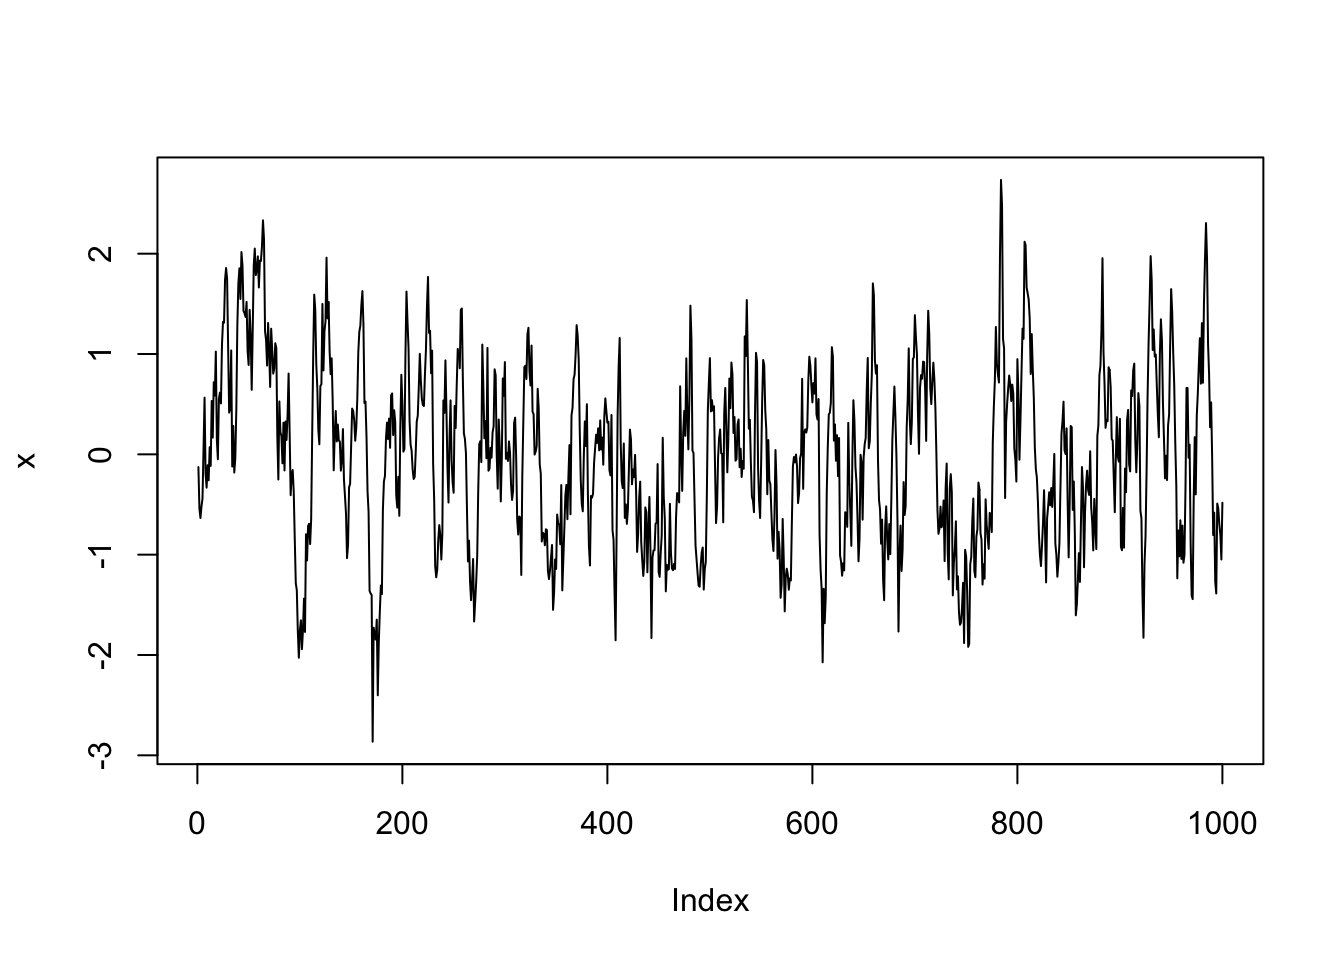
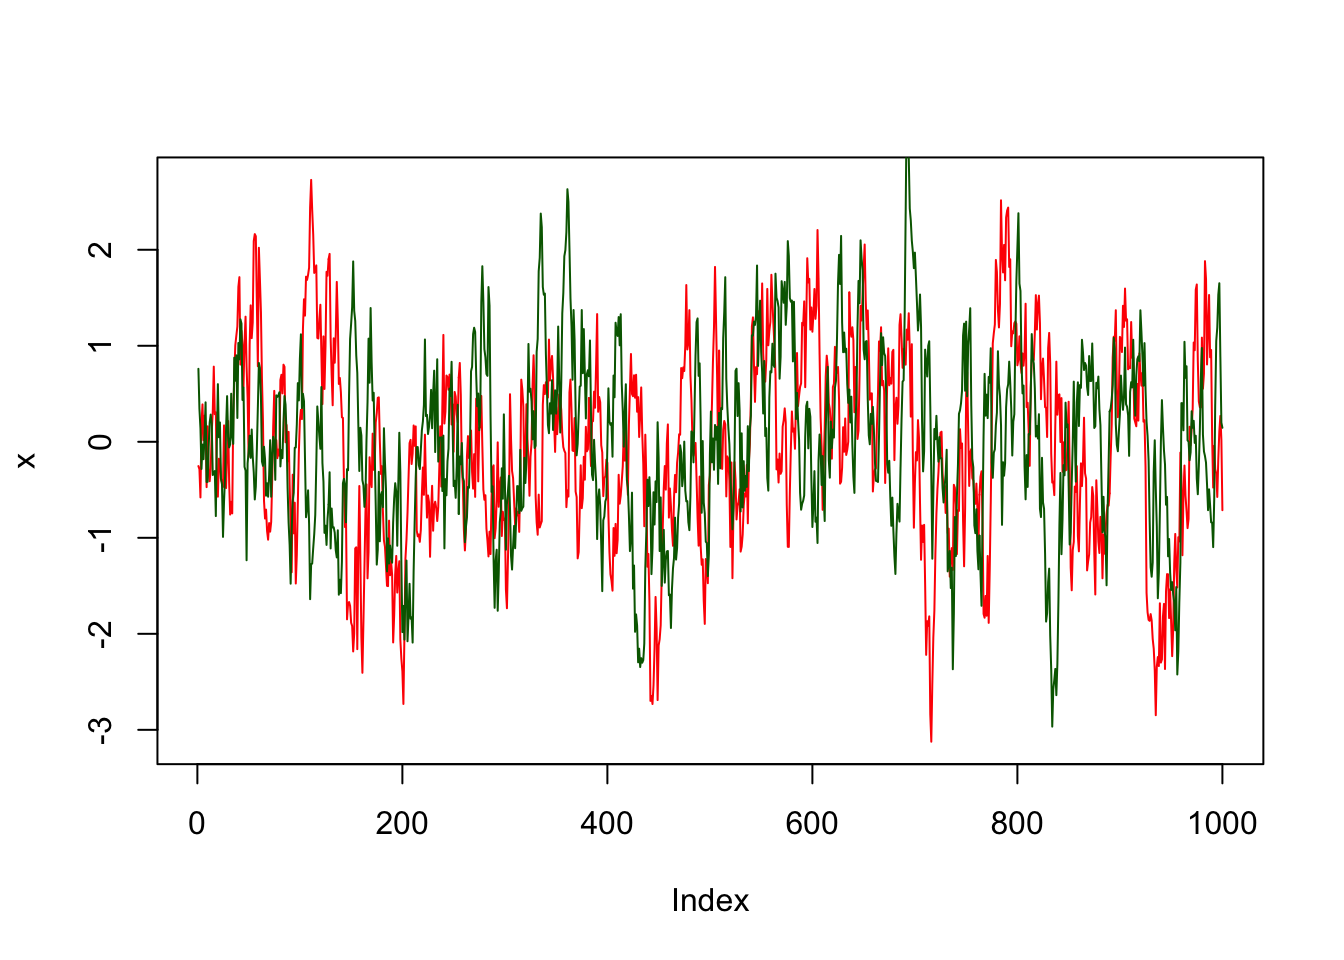
Messed around with welcome post

diff --git a/_site/posts/welcome/index.html b/_site/posts/welcome/index.html
@@ -232,16 +232,20 @@ window.Quarto = {
 <div class="sourceCode cell-code" id="cb1"><pre class="sourceCode r code-with-copy"><code class="sourceCode r"><span id="cb1-1"><a href="#cb1-1" aria-hidden="true" tabindex="-1"></a><span class="co"># generate storage variables</span></span>
 <span id="cb1-2"><a href="#cb1-2" aria-hidden="true" tabindex="-1"></a>nits <span class="ot">&lt;-</span> <span class="dv">1000</span></span>
 <span id="cb1-3"><a href="#cb1-3" aria-hidden="true" tabindex="-1"></a>x <span class="ot">&lt;-</span> <span class="fu">rep</span>(<span class="cn">NA</span>, nits)</span>
-<span id="cb1-4"><a href="#cb1-4" aria-hidden="true" tabindex="-1"></a>x[<span class="dv">1</span>] <span class="ot">&lt;-</span> <span class="fu">rnorm</span>(<span class="dv">1</span>)</span>
-<span id="cb1-5"><a href="#cb1-5" aria-hidden="true" tabindex="-1"></a>a <span class="ot">&lt;-</span> <span class="fl">0.9</span></span>
-<span id="cb1-6"><a href="#cb1-6" aria-hidden="true" tabindex="-1"></a></span>
-<span id="cb1-7"><a href="#cb1-7" aria-hidden="true" tabindex="-1"></a><span class="co"># simulate chain</span></span>
-<span id="cb1-8"><a href="#cb1-8" aria-hidden="true" tabindex="-1"></a><span class="cf">for</span> (i <span class="cf">in</span> <span class="dv">2</span><span class="sc">:</span>nits) {</span>
-<span id="cb1-9"><a href="#cb1-9" aria-hidden="true" tabindex="-1"></a>    x[i] <span class="ot">&lt;-</span> a <span class="sc">*</span> x[i<span class="dv">-1</span>] <span class="sc">+</span> <span class="fu">sqrt</span>(<span class="dv">1</span><span class="sc">-</span>a<span class="sc">^</span><span class="dv">2</span>) <span class="sc">*</span> <span class="fu">rnorm</span>(<span class="dv">1</span>)</span>
-<span id="cb1-10"><a href="#cb1-10" aria-hidden="true" tabindex="-1"></a>}</span>
-<span id="cb1-11"><a href="#cb1-11" aria-hidden="true" tabindex="-1"></a></span>
-<span id="cb1-12"><a href="#cb1-12" aria-hidden="true" tabindex="-1"></a><span class="co"># plot results</span></span>
-<span id="cb1-13"><a href="#cb1-13" aria-hidden="true" tabindex="-1"></a><span class="fu">plot</span>(x, <span class="at">type =</span> <span class="st">'l'</span>, <span class="at">pch =</span> <span class="dv">16</span>)</span></code><button title="Copy to Clipboard" class="code-copy-button"><i class="bi"></i></button></pre></div>
+<span id="cb1-4"><a href="#cb1-4" aria-hidden="true" tabindex="-1"></a>y <span class="ot">&lt;-</span> <span class="fu">rep</span>(<span class="cn">NA</span>, nits)</span>
+<span id="cb1-5"><a href="#cb1-5" aria-hidden="true" tabindex="-1"></a>x[<span class="dv">1</span>] <span class="ot">&lt;-</span> <span class="fu">rnorm</span>(<span class="dv">1</span>)</span>
+<span id="cb1-6"><a href="#cb1-6" aria-hidden="true" tabindex="-1"></a>y[<span class="dv">1</span>] <span class="ot">&lt;-</span> <span class="fu">rnorm</span>(<span class="dv">1</span>)</span>
+<span id="cb1-7"><a href="#cb1-7" aria-hidden="true" tabindex="-1"></a>a <span class="ot">&lt;-</span> <span class="fl">0.9</span></span>
+<span id="cb1-8"><a href="#cb1-8" aria-hidden="true" tabindex="-1"></a></span>
+<span id="cb1-9"><a href="#cb1-9" aria-hidden="true" tabindex="-1"></a><span class="co"># simulate chains</span></span>
+<span id="cb1-10"><a href="#cb1-10" aria-hidden="true" tabindex="-1"></a><span class="cf">for</span> (i <span class="cf">in</span> <span class="dv">2</span><span class="sc">:</span>nits) {</span>
+<span id="cb1-11"><a href="#cb1-11" aria-hidden="true" tabindex="-1"></a>    x[i] <span class="ot">&lt;-</span> a <span class="sc">*</span> x[i<span class="dv">-1</span>] <span class="sc">+</span> <span class="fu">sqrt</span>(<span class="dv">1</span><span class="sc">-</span>a<span class="sc">^</span><span class="dv">2</span>) <span class="sc">*</span> <span class="fu">rnorm</span>(<span class="dv">1</span>)</span>
+<span id="cb1-12"><a href="#cb1-12" aria-hidden="true" tabindex="-1"></a>    y[i] <span class="ot">&lt;-</span> a <span class="sc">*</span> y[i<span class="dv">-1</span>] <span class="sc">+</span> <span class="fu">sqrt</span>(<span class="dv">1</span><span class="sc">-</span>a<span class="sc">^</span><span class="dv">2</span>) <span class="sc">*</span> <span class="fu">rnorm</span>(<span class="dv">1</span>)</span>
+<span id="cb1-13"><a href="#cb1-13" aria-hidden="true" tabindex="-1"></a>}</span>
+<span id="cb1-14"><a href="#cb1-14" aria-hidden="true" tabindex="-1"></a></span>
+<span id="cb1-15"><a href="#cb1-15" aria-hidden="true" tabindex="-1"></a><span class="co"># plot results</span></span>
+<span id="cb1-16"><a href="#cb1-16" aria-hidden="true" tabindex="-1"></a><span class="fu">plot</span>(x, <span class="at">type =</span> <span class="st">'l'</span>, <span class="at">col =</span> <span class="st">"red"</span>)</span>
+<span id="cb1-17"><a href="#cb1-17" aria-hidden="true" tabindex="-1"></a><span class="fu">lines</span>(y, <span class="at">col =</span> <span class="st">"darkgreen"</span>)</span></code><button title="Copy to Clipboard" class="code-copy-button"><i class="bi"></i></button></pre></div>
 <div class="cell-output-display">
 <div>
 <figure class="figure">

diff --git a/_site/index.html b/_site/index.html
@@ -211,7 +211,7 @@ window.Quarto = {
 
 <div class="quarto-listing quarto-listing-container-default" id="listing-listing">
 <div class="list quarto-listing-default">
-<div class="quarto-post image-right" data-index="0" data-categories="bmV3cw==" data-listing-date-sort="1774998000000" data-listing-file-modified-sort="1775072105286" data-listing-date-modified-sort="NaN" data-listing-reading-time-sort="1" data-listing-word-count-sort="148">
+<div class="quarto-post image-right" data-index="0" data-categories="bmV3cw==" data-listing-date-sort="1774998000000" data-listing-file-modified-sort="1775073184421" data-listing-date-modified-sort="NaN" data-listing-reading-time-sort="1" data-listing-word-count-sort="168">
 <div class="thumbnail">
 <p><a href="./posts/welcome/index.html" class="no-external"></a></p><a href="./posts/welcome/index.html" class="no-external">
 <p class="card-img-top"><img src="posts/welcome/index_files/figure-html/unnamed-chunk-1-1.png"  class="thumbnail-image card-img"/></p>
